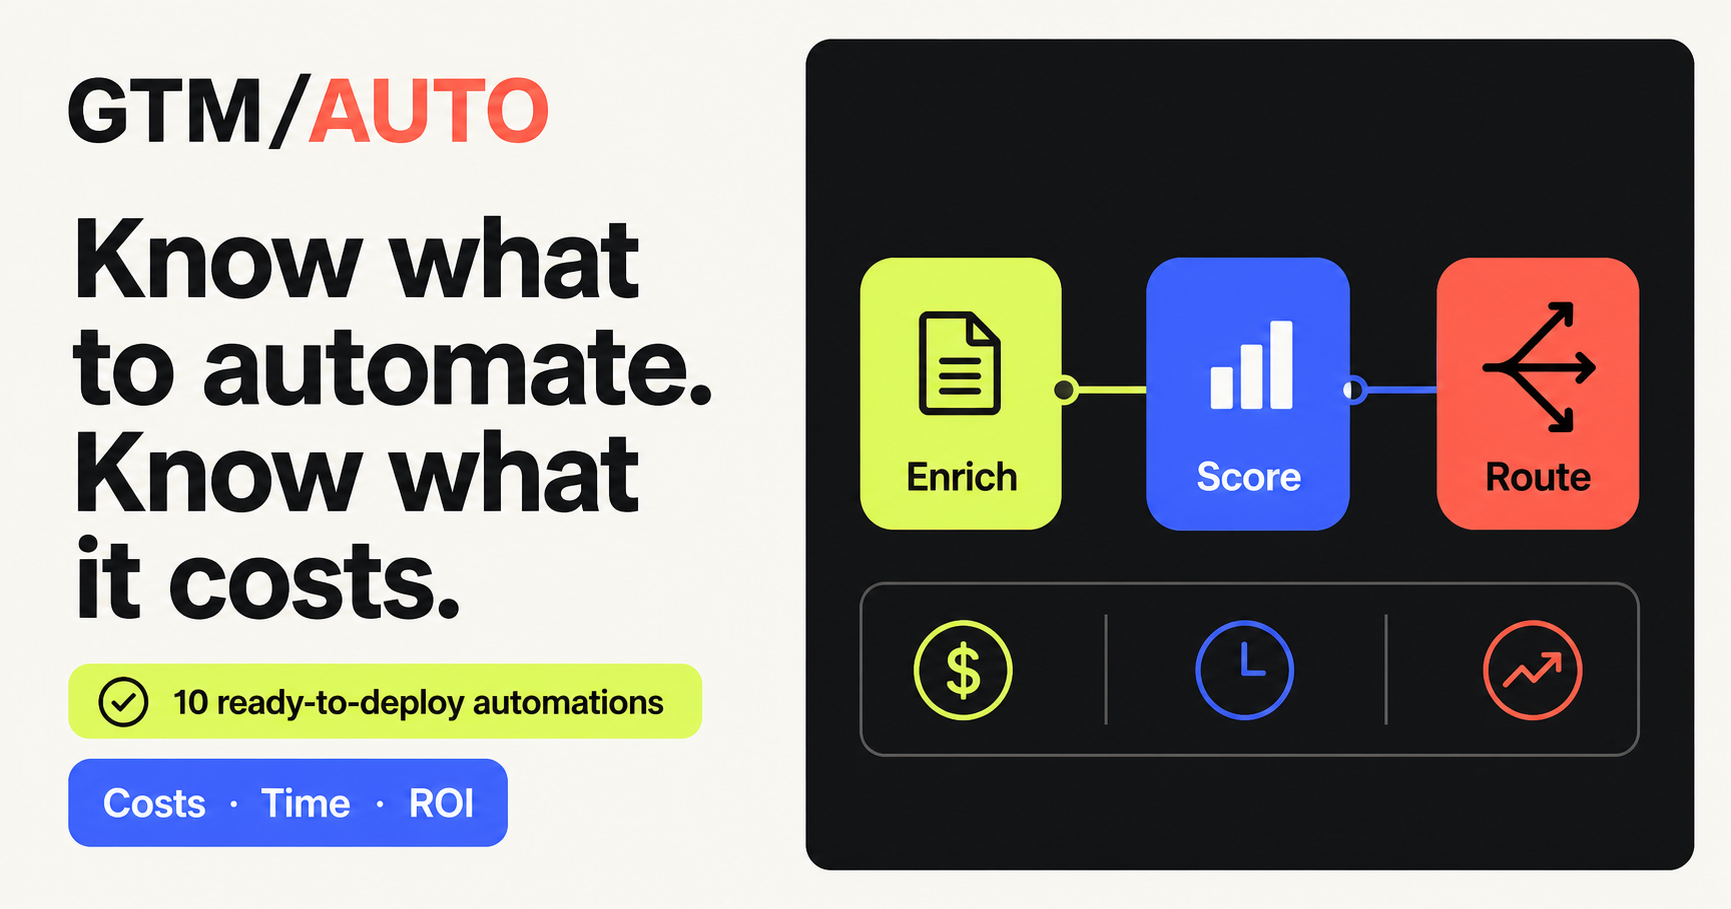
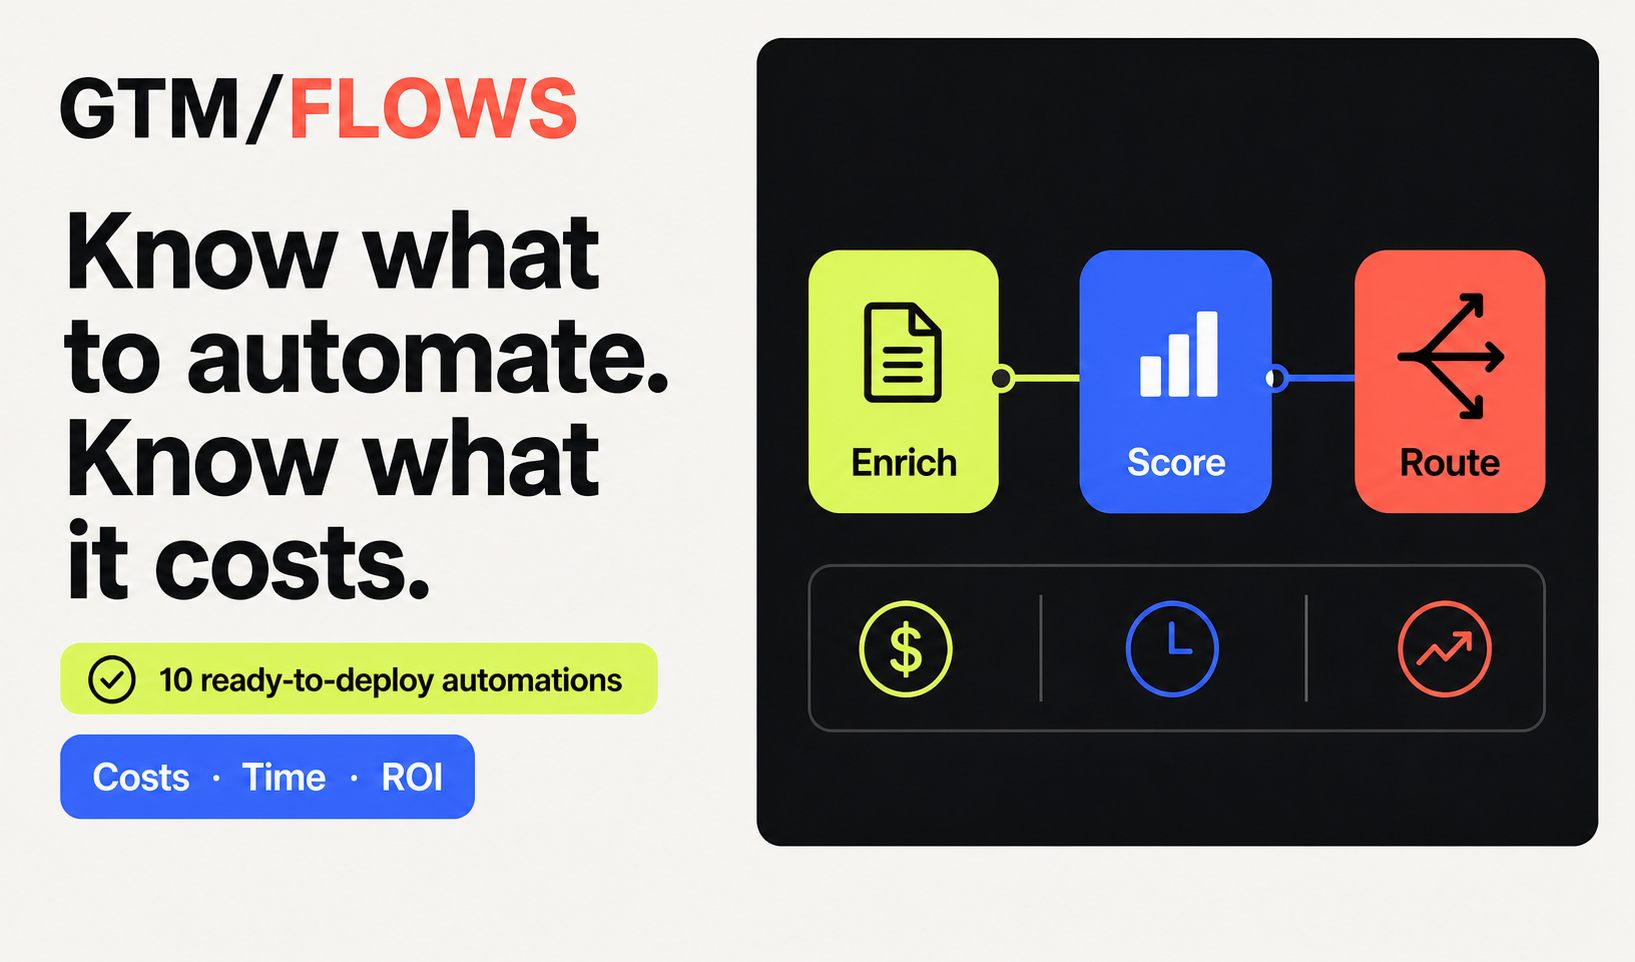
Rename brand to GTM Flows

diff --git a/app/page.tsx b/app/page.tsx
@@ -333,9 +333,9 @@ export default function Home() {
   return (
     <main>
       <nav className="nav shell" aria-label="Primary navigation">
-        <a className="brand" href="#top" aria-label="GTM Auto home">
-          <span className="brand-mark">G/A</span>
-          <span>GTM/AUTO</span>
+        <a className="brand" href="#top" aria-label="GTM Flows home">
+          <span className="brand-mark">G/F</span>
+          <span>GTM/FLOWS</span>
         </a>
         <div className="nav-links">
           <a href="#catalogue">Catalogue</a>
@@ -525,7 +525,7 @@ export default function Home() {
       </section>
 
       <footer className="footer shell">
-        <div className="brand"><span className="brand-mark">G/A</span><span>GTM/AUTO</span></div>
+        <div className="brand"><span className="brand-mark">G/F</span><span>GTM/FLOWS</span></div>
         <p>Fixed-price GTM automations for B2B sales teams.</p>
         <div><a href="#catalogue">Catalogue</a><a href="#roi">ROI</a><a href="#top">Back to top ↑</a></div>
       </footer>

diff --git a/app/layout.tsx b/app/layout.tsx
@@ -20,14 +20,14 @@ export async function generateMetadata(): Promise<Metadata> {
   const origin = `${protocol}://${host}`;
 
   return {
-    title: "GTM/AUTO — GTM Automation Catalogue",
+    title: "GTM Flows — GTM Automation Catalogue",
     description: "Browse fixed-price GTM automations with transparent setup costs, monthly running costs, implementation time and ROI.",
     openGraph: {
       title: "Know what to automate. Know what it costs.",
       description: "10 ready-to-deploy GTM automations with transparent costs, implementation time and ROI.",
       type: "website",
       url: origin,
-      images: [{ url: `${origin}/og.png`, width: 1200, height: 630, alt: "GTM/AUTO automation catalogue" }],
+      images: [{ url: `${origin}/og.png`, width: 1200, height: 630, alt: "GTM Flows automation catalogue" }],
     },
     twitter: {
       card: "summary_large_image",
